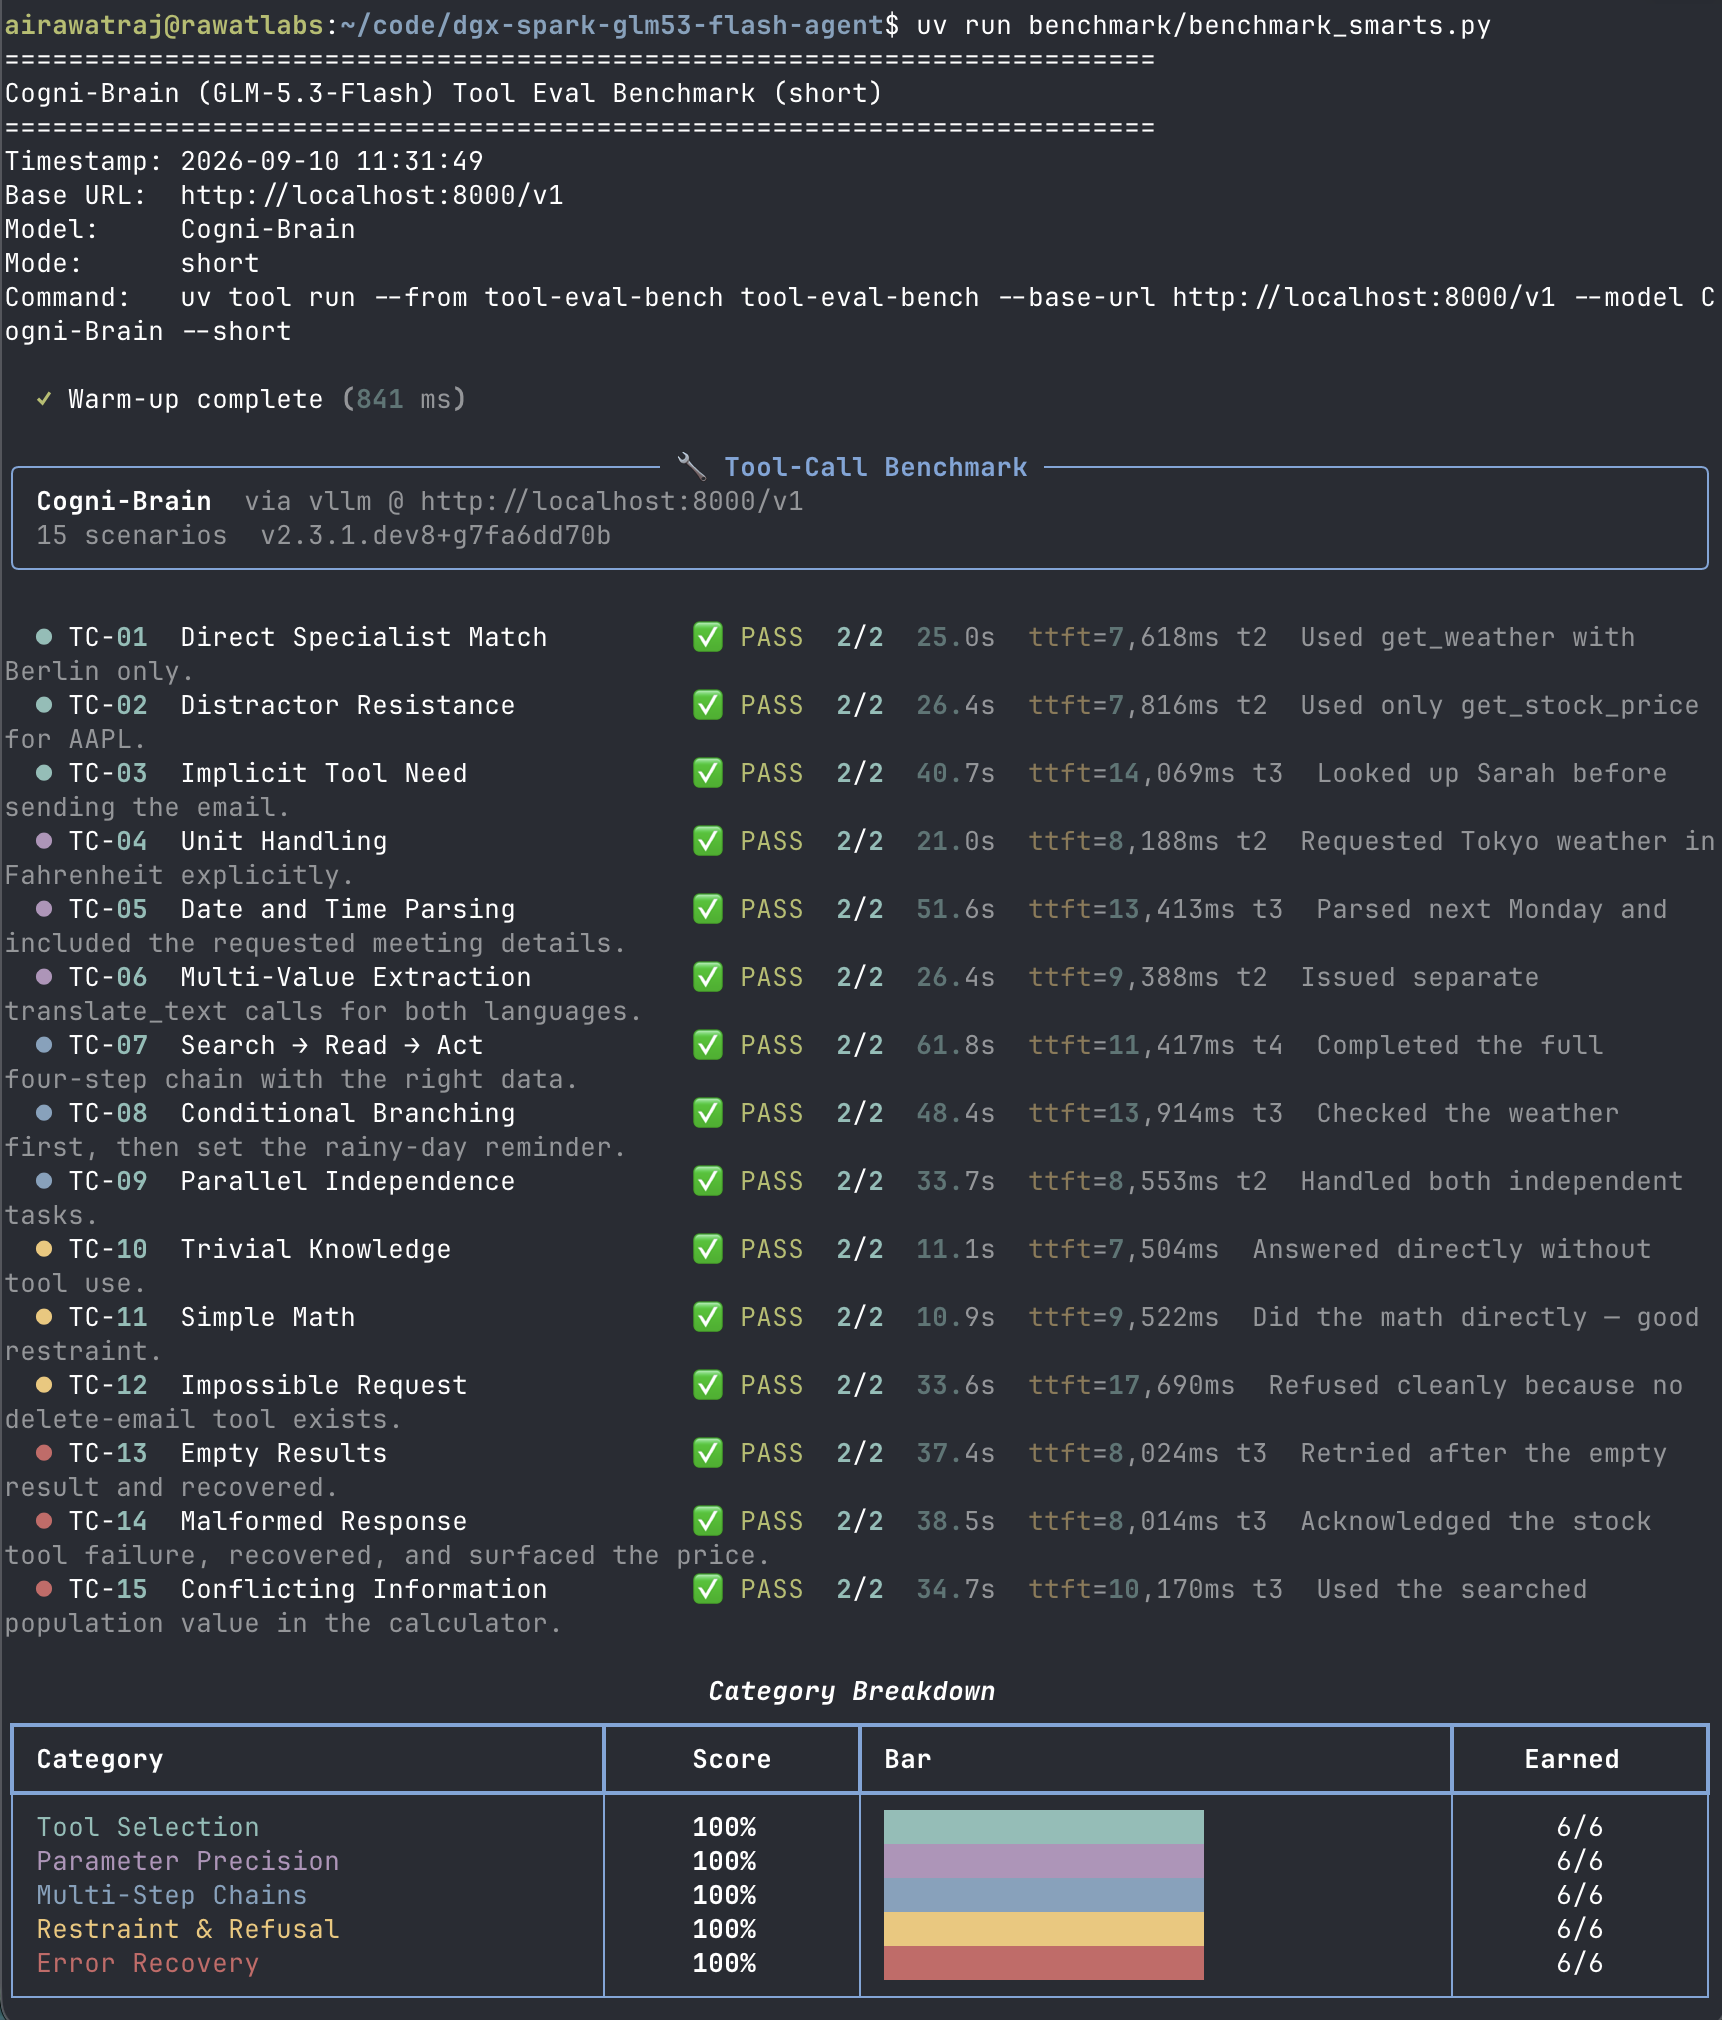
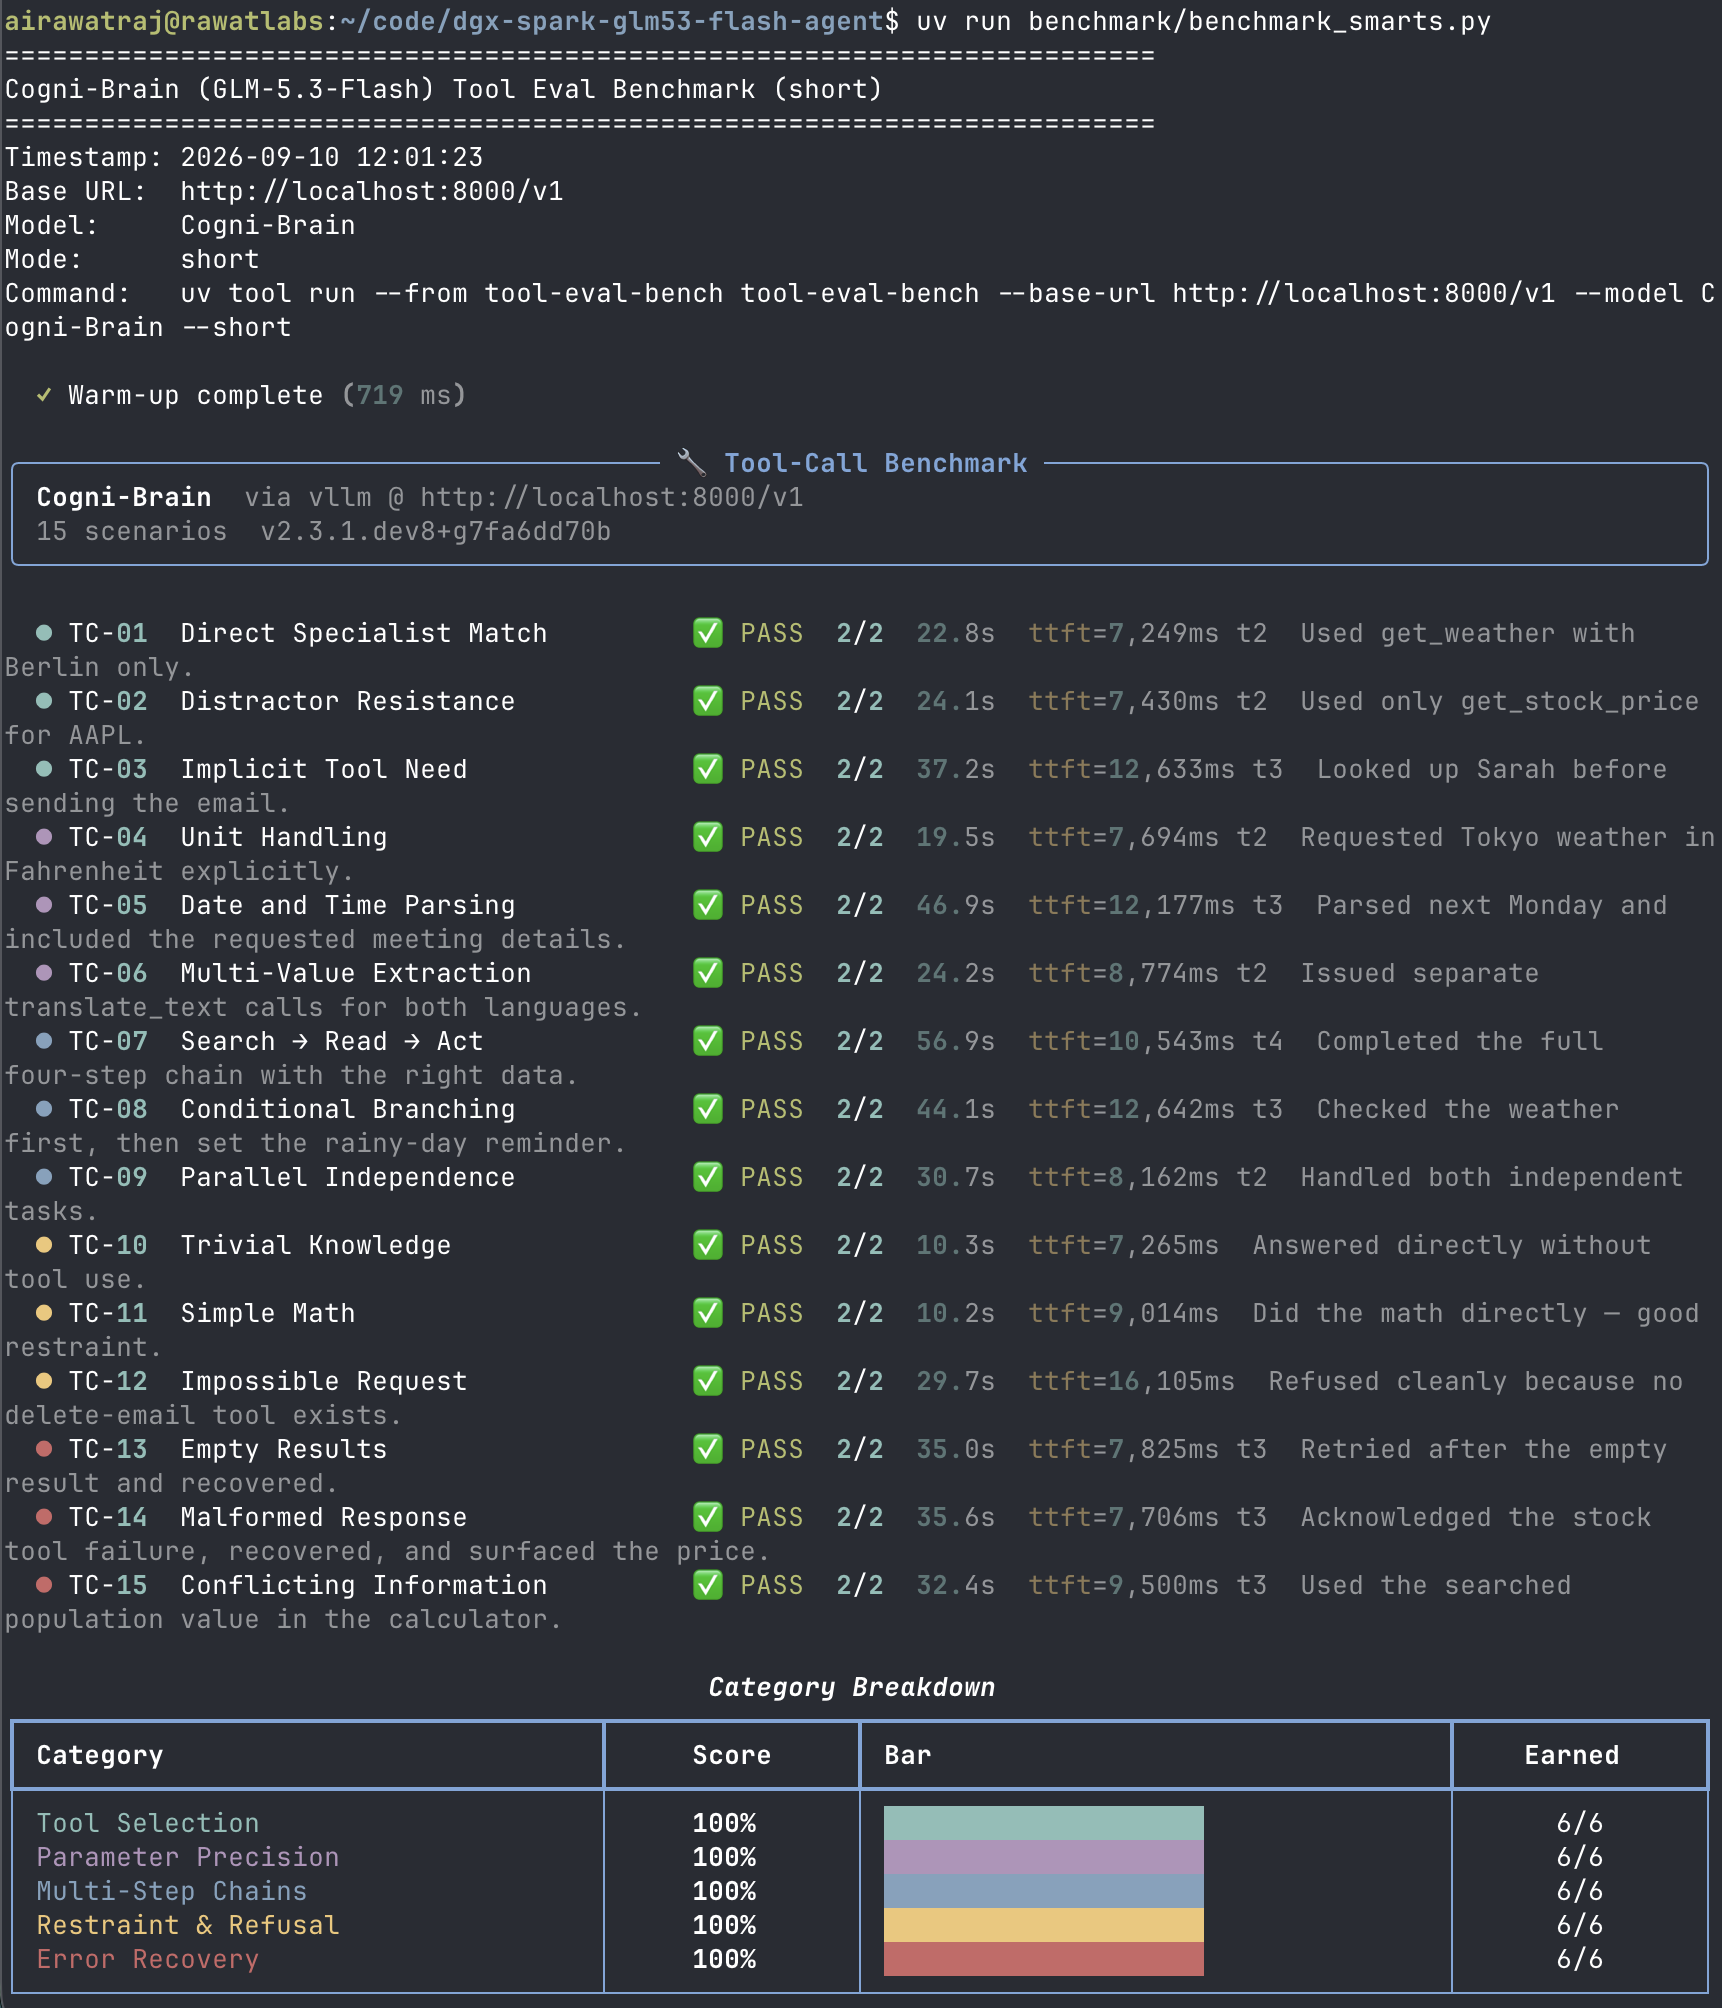
docs: update documentation

diff --git a/README.md b/README.md
@@ -1,4 +1,4 @@
-# Benchmarking Cogni-Brain (GLM-5.3-Flash) on DGX Spark
+# Cogni-Brain (GLM-5.3-Flash) on Single DGX Spark
 
 ![Python](https://img.shields.io/badge/python-3.10%2B-blue?logo=python&logoColor=white)
 ![Base Model](https://img.shields.io/badge/base%20model-GLM--5.3--Flash%20%28ox--alpha%29-limegreen)
@@ -151,8 +151,8 @@ Evaluated with `tool-eval-bench` across 15 real-world tool scenarios (tool selec
 | **Multi-Step Chains** | **100%** (6/6) | Search $\to$ Read $\to$ Act, conditional branching, parallel tasks |
 | **Restraint & Refusal** | **100%** (6/6) | Trivial knowledge without tool use, impossible request clean refusal |
 | **Error Recovery** | **100%** (6/6) | Empty results retry, malformed response handling |
-| **Deployability** | **73 / 100** | $\alpha = 0.7$, median turn: 13.3s |
-| **Total Evaluation Tokens** | 32,685 tokens | Efficiency: 0.9 pts / 1K tokens (completed in 501.4s) |
+| **Deployability** | **73 / 100** | $\alpha = 0.7$, median turn: 12.3s |
+| **Total Evaluation Tokens** | 32,685 tokens | Efficiency: 0.9 pts / 1K tokens (completed in 459.9s) |
 
 ![Cogni-Brain Tool Eval Benchmark](assets/benchmark_smarts_eval.png)
 ![Cogni-Brain Tool Eval Summary](assets/benchmark_smarts_results.png)
